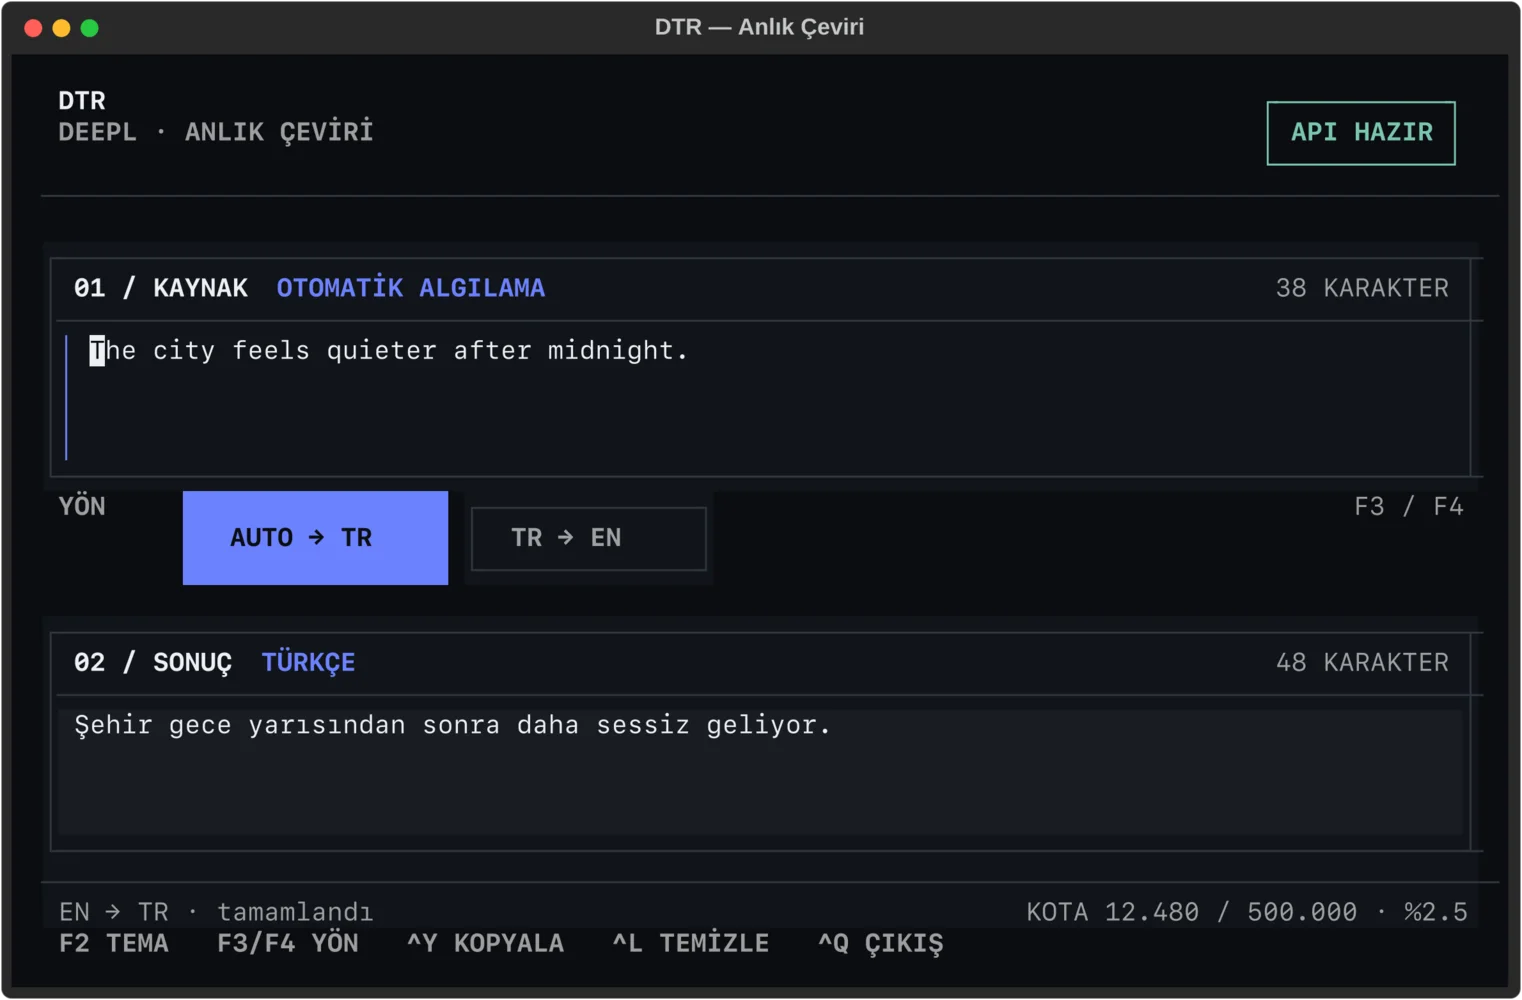
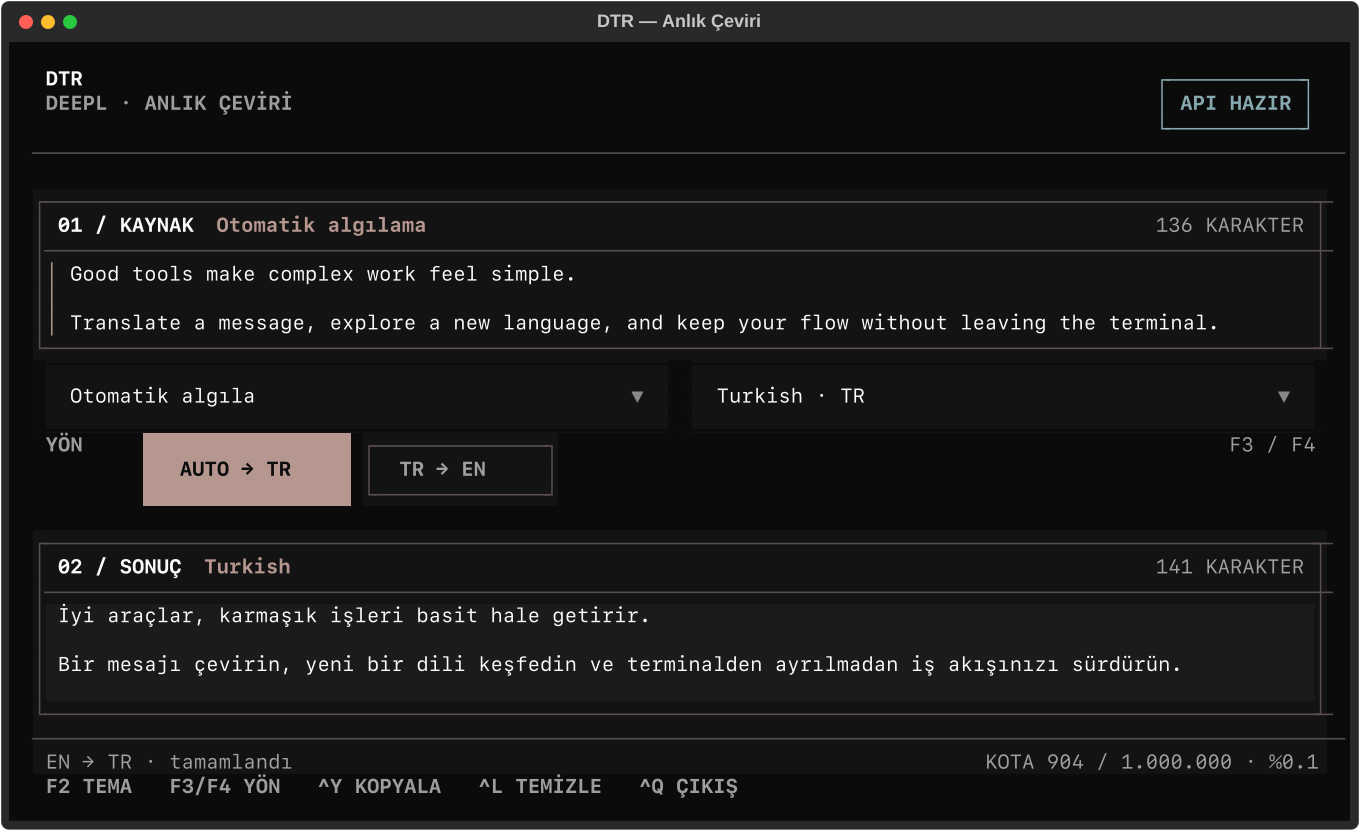
docs: add bilingual README and refresh application previews

diff --git a/src/data/projects.ts b/src/data/projects.ts
@@ -45,7 +45,7 @@ export const projects: Project[] = [
     updated: '2026.07',
     media: {
       src: '/projects/lexis.webp',
-      alt: 'Lexis desktop dictionary showing its local vocabulary workspace',
+      alt: 'Lexis vocabulary library with search, learning states, and nine sample entries',
       position: 'center',
     },
     caseStudy: {
@@ -92,7 +92,7 @@ export const projects: Project[] = [
     updated: '2026.07',
     media: {
       src: '/projects/clar-focus.webp',
-      alt: 'Clar Focus terminal dashboard with tasks, pomodoro state, and productivity statistics',
+      alt: 'Clar Focus dashboard showing the next task and a queue of sample tasks',
       position: 'center',
     },
     caseStudy: {
@@ -121,7 +121,7 @@ export const projects: Project[] = [
     description:
       'Android marketplace connecting farmers and buyers directly. Map-based listings, real-time chat, and per-kilogram price offers.',
     tags: ['Java', 'Android', 'Firebase', 'Google Maps'],
-    url: 'https://github.com/talhacaglar/TarlamCebimde',
+    url: 'https://github.com/talhacaglar/PocketFarm',
     category: 'Android marketplace',
     signal: 'Maps / Realtime',
     lang: 'Java',
@@ -134,14 +134,14 @@ export const projects: Project[] = [
     description:
       'A small terminal interface for translation without leaving the shell. Uses DeepL.',
     tags: ['Python', 'TUI', 'DeepL'],
-    url: 'https://github.com/talhacaglar/TUI-Anlik-Cevirmen',
+    url: 'https://github.com/talhacaglar/tui-translator',
     category: 'Terminal utility',
     signal: 'DeepL / Textual',
     lang: 'Python',
     updated: '2026.07',
     media: {
       src: '/projects/translator.webp',
-      alt: 'TUI Anlik Cevirmen terminal interface in its dark theme',
+      alt: 'DTR translating English into Turkish with source and target language selectors',
       position: 'center',
     },
     size: 'compact',

diff --git a/src/components/Projects.tsx b/src/components/Projects.tsx
@@ -10,18 +10,24 @@ import { projects, type Project } from "@/data/projects";
 function ProjectVisual({ project, priority = false }: { project: Project; priority?: boolean }) {
   if (project.media) {
     return (
-      <div className="project-visual project-visual-image">
+      <a
+        href={project.media.src}
+        target="_blank"
+        rel="noopener noreferrer"
+        className="project-visual project-visual-image block"
+        aria-label={`Open full-size ${project.name} screenshot`}
+        title="Open full-size screenshot"
+      >
         <Image
           src={project.media.src}
           alt={project.media.alt}
           fill
           priority={priority}
           sizes="(max-width: 1024px) 100vw, 56vw"
-          className="object-cover transition-transform duration-700 group-hover/visual:scale-[1.018]"
+          className="object-contain"
           style={{ objectPosition: project.media.position ?? "center" }}
         />
-        <div className="project-visual-scan" aria-hidden="true" />
-      </div>
+      </a>
     );
   }
 

diff --git a/src/app/globals.css b/src/app/globals.css
@@ -202,23 +202,10 @@
     overflow: hidden;
   }
 
-  .project-visual-image::after {
-    position: absolute;
-    inset: 0;
-    background: linear-gradient(to top, rgba(9, 11, 10, 0.56), transparent 45%);
-    content: "";
-    pointer-events: none;
-  }
-
-  .project-visual-scan {
-    position: absolute;
-    inset: 0;
-    z-index: 2;
-    background: linear-gradient(to bottom, transparent 49%, rgba(170, 119, 79, 0.2) 50%, transparent 51%);
-    background-size: 100% 4rem;
-    mix-blend-mode: screen;
-    opacity: 0.26;
-    pointer-events: none;
+  .project-visual-image {
+    aspect-ratio: 16 / 10;
+    min-height: 0;
+    background: #0b0d10;
   }
 
   .project-schematic {

diff --git a/README.md b/README.md
@@ -1,74 +1,55 @@
-# talhacaglar.github.io
+# Talha Çağlar · Portfolio
 
-Personal portfolio. Next.js 16 (App Router) + Tailwind v4 + Framer Motion,
-built as a static export.
+[English](#english) · [Türkçe](#türkçe)
 
-Live at **https://talhacaglar.github.io/**
+## English
 
-The public repository contains the source and deploys its static export through
-GitHub Actions. The Pages artifact contains only the generated `out/` directory.
+Personal portfolio built with Next.js, React and Tailwind CSS, exported as a static website and published through GitHub Pages.
 
-## Develop
+### Features
 
-```bash
-npm install
-npm run dev          # http://localhost:3000
-```
+- Selected projects with implementation context and real application previews.
+- Education, experience, certificates and contact links.
+- Downloadable Turkish and English CVs.
+- Responsive layout, keyboard navigation and reduced-motion support.
 
-## Design system
+### Getting started
 
-The site is a warm, dark systems dossier rather than a card-based portfolio.
-
-- Neutral graphite surfaces, chalk-white type and a restrained copper accent;
-  no purple, gradients or glass effects
-- Barlow Condensed for identity, Manrope for body copy, IBM Plex Mono for data
-- The two-line name block, technical grid and restrained copper markers carry
-  the hero's visual identity
-- A desktop Work Index drives a sticky Project Inspector; mobile uses native,
-  accessible case-study accordions
-- Projects show factual problem / decision / result evidence
-- Certifications are a document archive; experience is a chronological rail
-- Copy stays short, conversational and factual
-- Motion respects reduced-motion preferences and degrades to static depth
-- Open Graph image, sitemap and structured data ship with the export
-
-Personal facts and work records live in `src/data/`. Keep them factual and do
-not add decorative or invented claims.
-
-## Verify before deploying
+Use Node.js 24 to match the deployment workflow. Install the locked dependencies and run the development server.
 
 ```bash
-npm run lint
-npm run build
-npx serve@latest out -p 4321
+git clone https://github.com/talhacaglar/talhacaglar.github.io.git
+cd talhacaglar.github.io
+npm ci
+npm run dev
 ```
 
-Check 390 / 768 / 1440 widths: no horizontal overflow, Turkish glyphs
-(`Ç ğ ı ş`) render correctly, project selection works by keyboard and pointer,
-every project and certificate link resolves, the mobile dialog traps focus and
-closes on selection/Escape, and reduced motion leaves all content visible.
+Live: [talhacaglar.github.io](https://talhacaglar.github.io/). Check with `npm run lint` and `npm run build`. A push to `main` triggers the Pages workflow, which publishes `out/`. The source of project content is `src/data/`.
 
-In restricted sandboxes Turbopack may be unable to bind its internal CSS worker
-port. That is an environment limitation; use `next build --webpack` for the
-equivalent production verification there.
+[Detailed technical reference](REFERENCE.md)
 
-## Deploy
+## Türkçe
+
+Next.js, React ve Tailwind CSS ile geliştirilen; statik olarak dışa aktarılıp GitHub Pages üzerinden yayınlanan kişisel portfolyo.
+
+### Özellikler
+
+- Uygulama bağlamı ve gerçek arayüz görüntüleriyle seçili projeler.
+- Eğitim, deneyim, sertifikalar ve iletişim bağlantıları.
+- İndirilebilir Türkçe ve İngilizce CV.
+- Duyarlı yerleşim, klavye gezinmesi ve azaltılmış hareket desteği.
+
+### Başlangıç
+
+Yayın akışıyla aynı ortam için Node.js 24 kullanın. Kilitli bağımlılıkları kurup geliştirme sunucusunu başlatın.
 
 ```bash
-./scripts/deploy.sh -n   # lint + build without pushing
-./scripts/deploy.sh      # verify, then push main to trigger Pages
+git clone https://github.com/talhacaglar/talhacaglar.github.io.git
+cd talhacaglar.github.io
+npm ci
+npm run dev
 ```
 
-Deployment is an explicit operation. The script refuses to deploy a dirty tree;
-the workflow performs the production build and publishes `out/` as a Pages
-artifact without rewriting Git history.
+Canlı site: [talhacaglar.github.io](https://talhacaglar.github.io/). `npm run lint` ve `npm run build` ile denetleyin. `main` dalına push, `out/` klasörünü yayınlayan Pages akışını tetikler. Proje içeriklerinin kaynağı `src/data/` dizinidir.
 
-## Gotchas
-
-- Never add an unlayered rule to `globals.css`. Tailwind v4 utilities live in
-  `@layer utilities`, so unlayered rules silently outrank them.
-- All fonts need `latin-ext`, or Turkish characters fall back to a system face.
-- `lucide-react` does not ship brand icons. GitHub, LinkedIn and Telegram remain
-  hand-written SVGs in `src/components/ui/icons.tsx`.
-- The project stays compatible with `output: "export"`; do not introduce server
-  actions, cookies, runtime route handlers or the default image optimizer.
+[Ayrıntılı teknik referans](REFERENCE.md)

diff --git a/REFERENCE.md b/REFERENCE.md
@@ -1,0 +1,74 @@
+# talhacaglar.github.io
+
+Personal portfolio. Next.js 16 (App Router) + Tailwind v4 + Framer Motion,
+built as a static export.
+
+Live at **https://talhacaglar.github.io/**
+
+The public repository contains the source and deploys its static export through
+GitHub Actions. The Pages artifact contains only the generated `out/` directory.
+
+## Develop
+
+```bash
+npm install
+npm run dev          # http://localhost:3000
+```
+
+## Design system
+
+The site is a warm, dark systems dossier rather than a card-based portfolio.
+
+- Neutral graphite surfaces, chalk-white type and a restrained copper accent;
+  no purple, gradients or glass effects
+- Barlow Condensed for identity, Manrope for body copy, IBM Plex Mono for data
+- The two-line name block, technical grid and restrained copper markers carry
+  the hero's visual identity
+- A desktop Work Index drives a sticky Project Inspector; mobile uses native,
+  accessible case-study accordions
+- Projects show factual problem / decision / result evidence
+- Certifications are a document archive; experience is a chronological rail
+- Copy stays short, conversational and factual
+- Motion respects reduced-motion preferences and degrades to static depth
+- Open Graph image, sitemap and structured data ship with the export
+
+Personal facts and work records live in `src/data/`. Keep them factual and do
+not add decorative or invented claims.
+
+## Verify before deploying
+
+```bash
+npm run lint
+npm run build
+npx serve@latest out -p 4321
+```
+
+Check 390 / 768 / 1440 widths: no horizontal overflow, Turkish glyphs
+(`Ç ğ ı ş`) render correctly, project selection works by keyboard and pointer,
+every project and certificate link resolves, the mobile dialog traps focus and
+closes on selection/Escape, and reduced motion leaves all content visible.
+
+In restricted sandboxes Turbopack may be unable to bind its internal CSS worker
+port. That is an environment limitation; use `next build --webpack` for the
+equivalent production verification there.
+
+## Deploy
+
+```bash
+./scripts/deploy.sh -n   # lint + build without pushing
+./scripts/deploy.sh      # verify, then push main to trigger Pages
+```
+
+Deployment is an explicit operation. The script refuses to deploy a dirty tree;
+the workflow performs the production build and publishes `out/` as a Pages
+artifact without rewriting Git history.
+
+## Gotchas
+
+- Never add an unlayered rule to `globals.css`. Tailwind v4 utilities live in
+  `@layer utilities`, so unlayered rules silently outrank them.
+- All fonts need `latin-ext`, or Turkish characters fall back to a system face.
+- `lucide-react` does not ship brand icons. GitHub, LinkedIn and Telegram remain
+  hand-written SVGs in `src/components/ui/icons.tsx`.
+- The project stays compatible with `output: "export"`; do not introduce server
+  actions, cookies, runtime route handlers or the default image optimizer.
